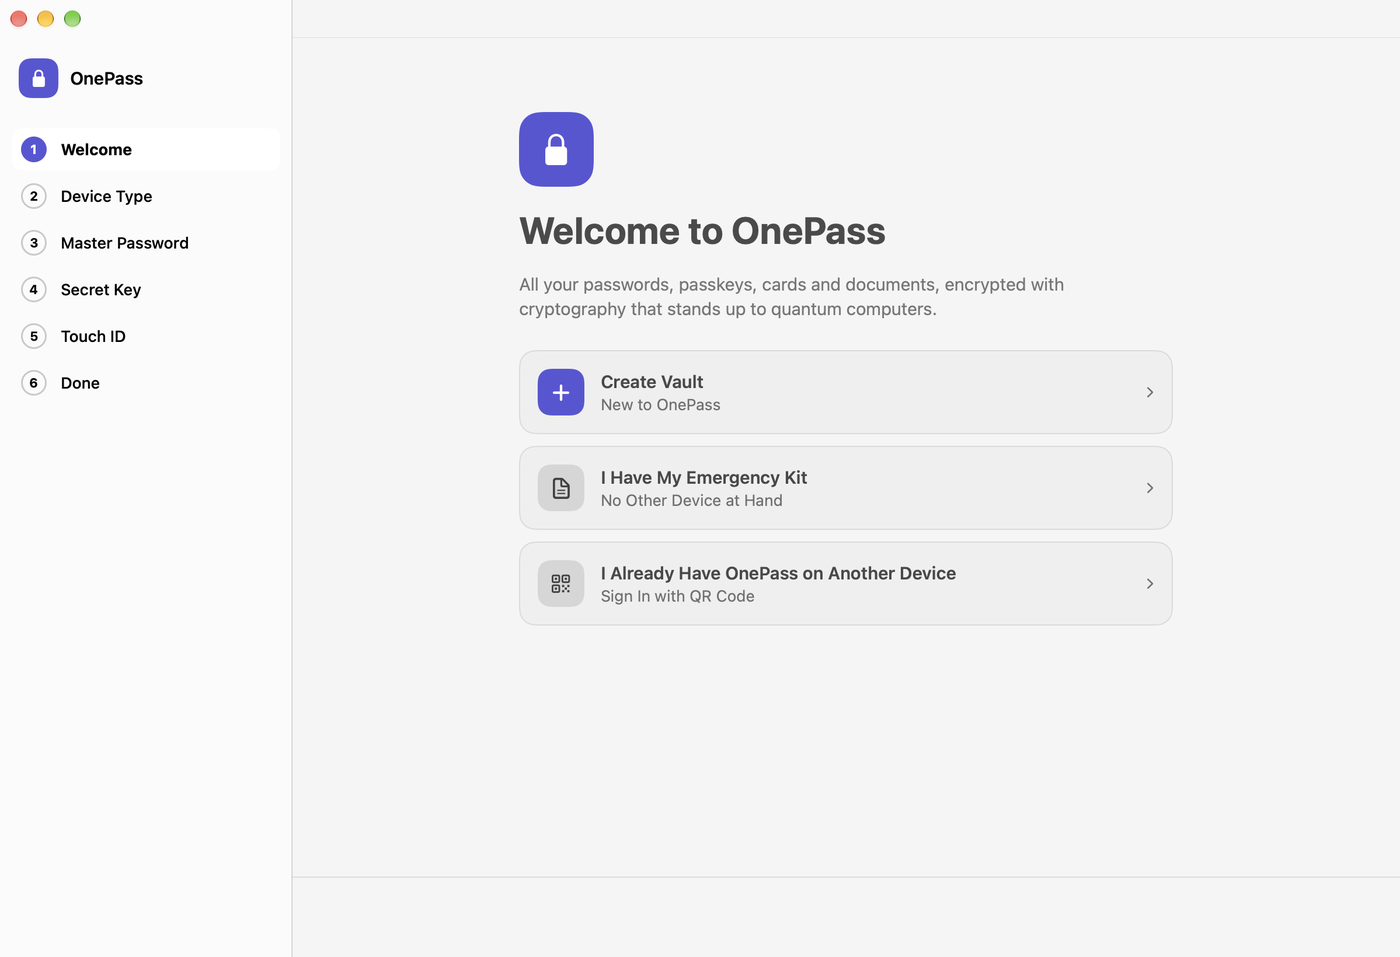
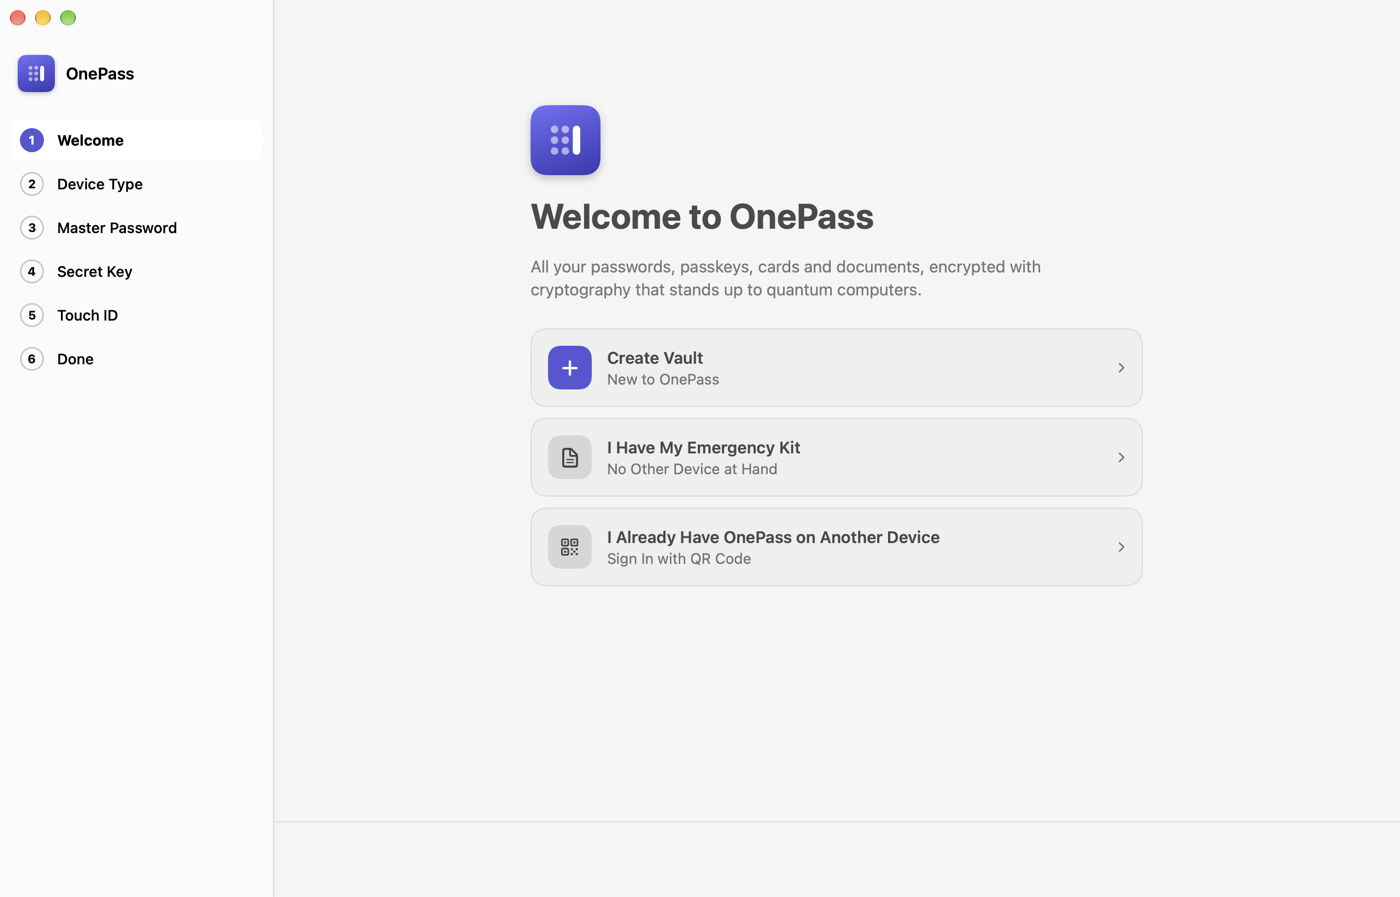
feat(brand): Lattice in the Mac onboarding, README Mac shot retaken
The Mac welcome step and the onboarding rail drew their own lock tile
as the brand mark; both now use AppGlyph. The README Mac screenshot
is retaken from the snapshot mode with the new mark.

diff --git a/apple/App/Onboarding/OnboardingFlow.swift b/apple/App/Onboarding/OnboardingFlow.swift
@@ -802,15 +802,7 @@ private struct StepRail: View {
     var body: some View {
         VStack(alignment: .leading, spacing: 4) {
             HStack(spacing: 10) {
-                RoundedRectangle(cornerRadius: 10, style: .continuous)
-                    .fill(Theme.accent)
-                    .frame(width: 34, height: 34)
-                    .overlay {
-                        Image(systemName: "lock.fill")
-                            .font(.system(size: 15, weight: .semibold))
-                            .foregroundStyle(.white)
-                    }
-                    .accessibilityHidden(true)
+                AppGlyph(size: 34).accessibilityHidden(true)
                 Text("OnePass").font(.title3.bold())
             }
             .padding(.horizontal, 6)

diff --git a/apple/App/Onboarding/OnboardingSteps.swift b/apple/App/Onboarding/OnboardingSteps.swift
@@ -208,11 +208,7 @@ private struct WelcomeStep: View {
 
     var body: some View {
         if Platform.isMac {
-            RoundedRectangle(cornerRadius: 18, style: .continuous)
-                .fill(Theme.accent)
-                .frame(width: 64, height: 64)
-                .overlay { Image(systemName: "lock.fill").font(.system(size: 28)).foregroundStyle(.white) }
-                .accessibilityHidden(true)
+            AppGlyph(size: 64).accessibilityHidden(true)
         } else {
             AppGlyph(size: 88).padding(.top, 30)
         }
